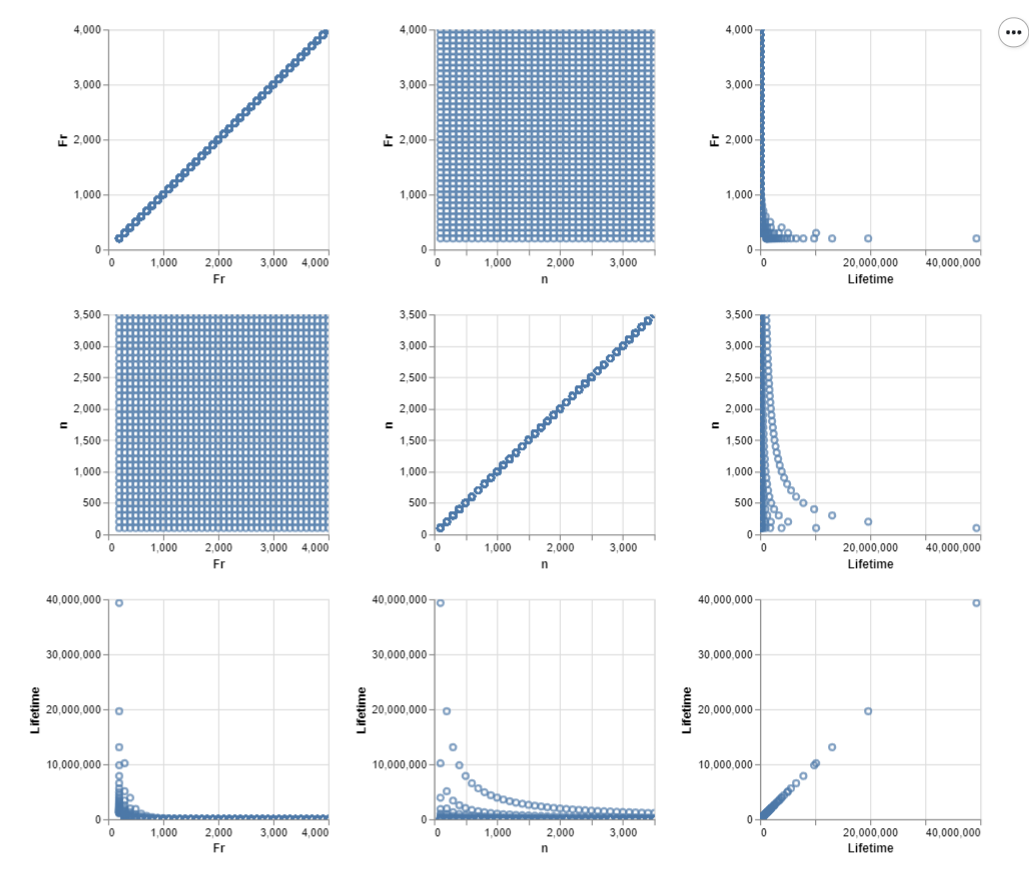
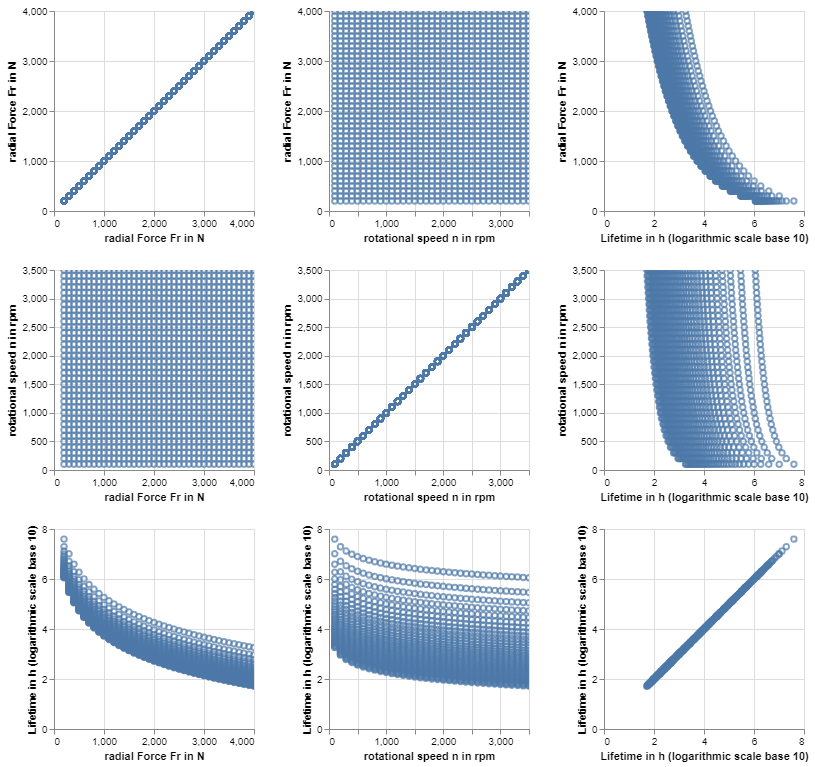
updated crosscorrelation plot

diff --git a/docs/main.tex b/docs/main.tex
@@ -114,7 +114,7 @@
 				\end{minipage}
 			\end{figure}
 			
-			\noindent After showing the info of the data and getting a general feel for the data set, we can see how the data points are related to each other with the same techniques from Chapter \ref{EDA}. We create a chart for every feature of a data point and get the charts in picture \ref{fig:EDA_crossplot}. the charts where we use \textit{Fr} and \textit{n} aren't correlated at all. In a more zoomed in we can se that the points are evenly distributed. This makes sense if the data is a systematic test, with the changing parameters of rotation n and radial Force Fr. In picture \ref{fig:EDA_3Dscatter} there is a 3D scatter of the data points with n and Fr on the x and y axis and the Logarithm of the Lifetime on the z axis. It shows a better Picture of the data were the equal distributed points show a good visible plane. The lifetime increases rapidly when n and Fr go towards zero and shrink exponential when one of both parameters are increased.
+			\noindent After showing the info of the data and getting a general feel for the data set, we can see how the data points are related to each other with the same techniques from Chapter \ref{EDA}. We create a chart for every feature of a data point and get the charts in picture \ref{fig:EDA_crossplot}. the charts where we use \textit{Fr} and \textit{n} aren't correlated at all. If we zoom in more we can see that the points are evenly distributed. This makes sense if the data is a systematic test, with the changing parameters of rotation n and radial Force Fr. In picture \ref{fig:EDA_3Dscatter} there is a 3D scatter of the data points with n and Fr on the x and y axis and the Logarithm of the Lifetime on the z axis. It shows a better Picture of the data were the equal distributed points show a good visible plane. The lifetime increases rapidly when n and Fr go towards zero and shrink exponential when one of both parameters are increased.
 	
 			\begin{figure}[H]
 				\centering

diff --git a/deep_groove_project/src/first_eda/first_eda.py b/deep_groove_project/src/first_eda/first_eda.py
@@ -20,7 +20,16 @@ def show_standard_info(df):
 
 
 def show_correlation_grafs(df):
-    fields = ['Fr', 'n', 'Lifetime']
+    fields = ['radial Force Fr in N', 'rotational speed n in rpm', "Lifetime in h (logarithmic scale base 10)"]
+
+    df['Lifetime'] = np.log10(df['Lifetime'])
+    df = df.rename(
+        columns={
+            "Lifetime": "Lifetime in h (logarithmic scale base 10)",
+            "n": "rotational speed n in rpm",
+            "Fr": "radial Force Fr in N"
+        }
+    )
 
     chart = alt.Chart(df).mark_point().encode(
         alt.X(alt.repeat("column"), type='quantitative'),
